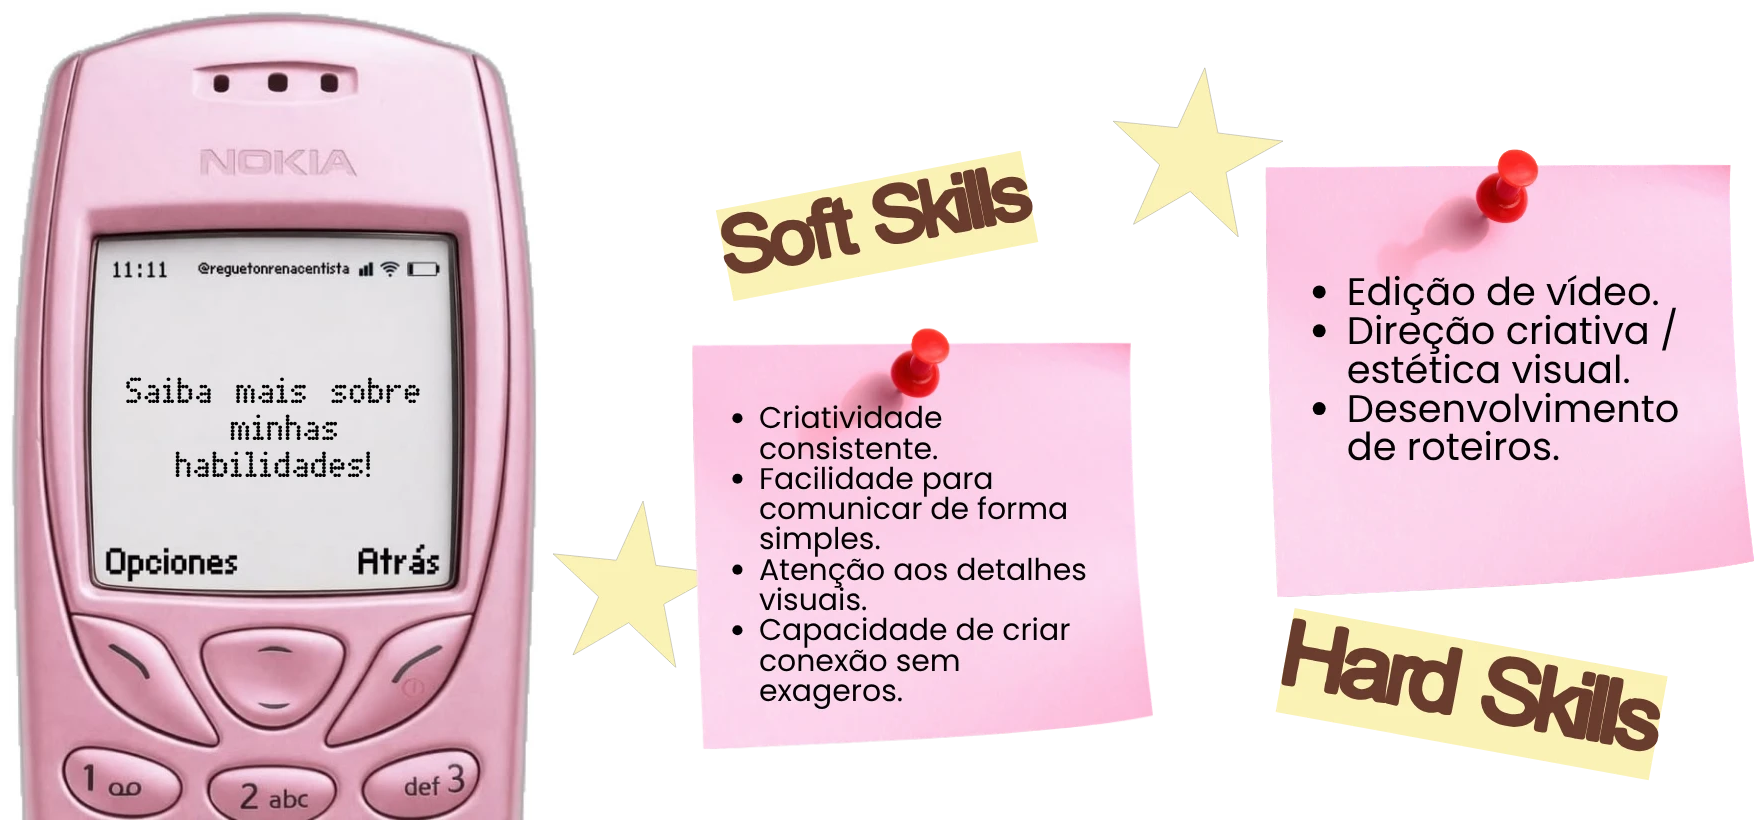
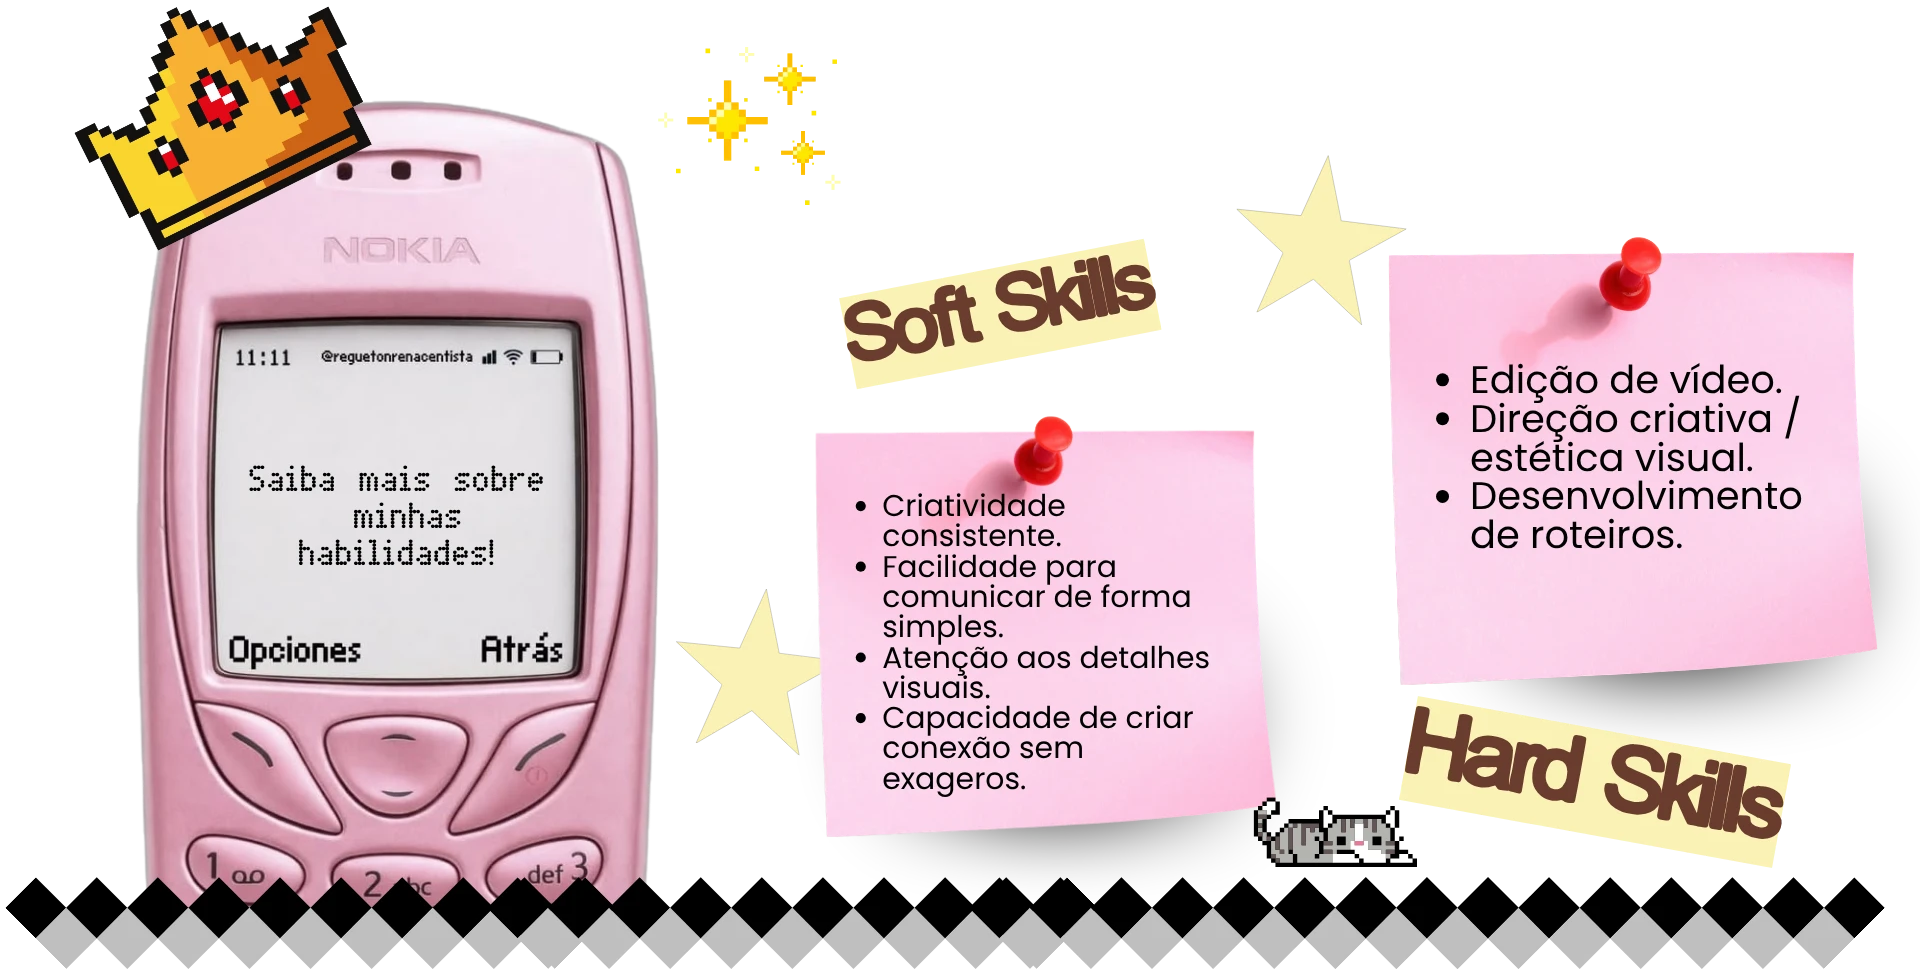
Atualiza imagem de Skills com versao com coroa, gatinho pixel e borda
Claude-Session: https://claude.ai/code/session_017mhquVYaq2vngGfUbmmTVH

diff --git a/index.html b/index.html
@@ -326,7 +326,7 @@ footer.site :focus-visible{outline-color:var(--amarelo)}
     </div>
   </div>
   <div class="wrap">
-    <img class="skills-img reveal" src="images/skills-completo.png" alt="Celular Nokia retrô com a mensagem 'Saiba mais sobre minhas habilidades'. Soft Skills: criatividade consistente, facilidade para comunicar de forma simples, atenção aos detalhes visuais, capacidade de criar conexão sem exageros. Hard Skills: edição de vídeo, direção criativa / estética visual, desenvolvimento de roteiros." width="1763" height="820" loading="lazy">
+    <img class="skills-img reveal" src="images/skills-completo.png" alt="Celular Nokia retrô com a mensagem 'Saiba mais sobre minhas habilidades'. Soft Skills: criatividade consistente, facilidade para comunicar de forma simples, atenção aos detalhes visuais, capacidade de criar conexão sem exageros. Hard Skills: edição de vídeo, direção criativa / estética visual, desenvolvimento de roteiros." width="1920" height="975" loading="lazy">
   </div>
 </section>
 
